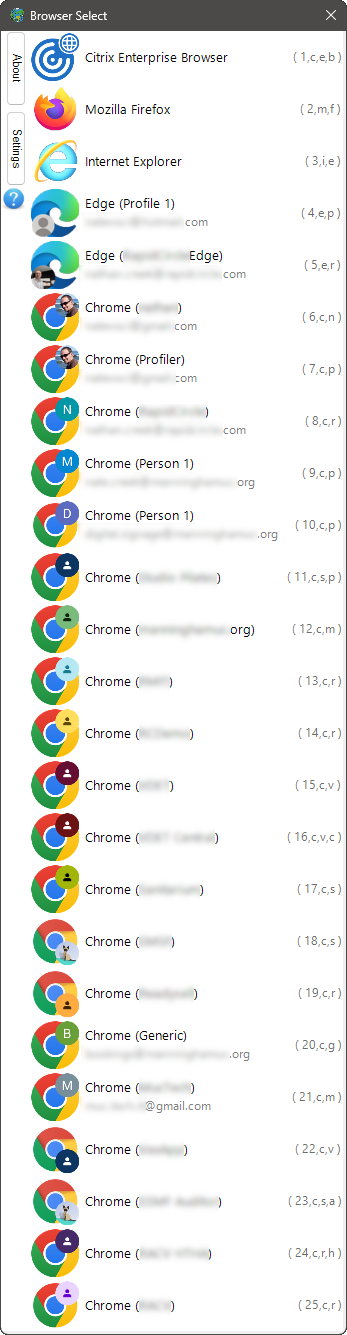
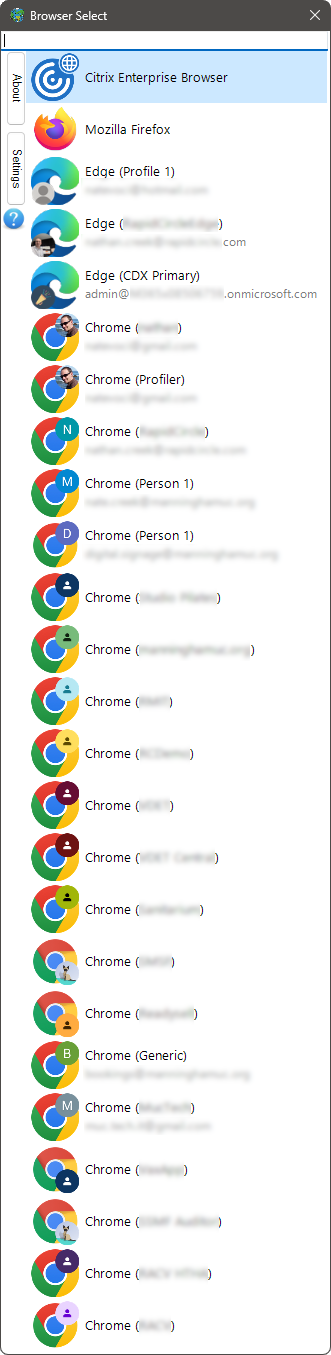
Updated README.md for 1.5.1

diff --git a/README.md b/README.md
@@ -3,6 +3,10 @@ Browser Select is a utility to dynamically select the browser you want instead o
 
 ![screenshot1](https://raw.githubusercontent.com/lucasnz/BrowserSelect/master/screenshots/photo_2016-07-11_13-44-19.png)
 
+or in vertical "Compact mode"
+
+![screenshot1](screenshots/compact-vertical.png)
+
 Instead of having to copy the link, open the desired (non-default) browser then pasting the link, all you need to do is to click on the link and this prompt will open allowing you to choose the browser you want. It automatically detects installed browsers. It does not require administrative rights and can be installed as a restricted user.
 
 ![screenshot 2](https://raw.githubusercontent.com/lucasnz/BrowserSelect/master/screenshots/photo_2015-10-12_16-46-14.jpg)
@@ -56,7 +60,7 @@ Just a list of some ideas that can be integrated into BrowserSelect.
 - [ ] export/import for rules/settings
 - [ ] Sorting browsers on the list
 - [ ] Custom Shortcuts
-- [ ] Ignoring the rules if Alt key is held down when clicking a link
+- [x] Ignoring the rules if Alt key is held down when clicking a link
 - [ ] an API to invoke BrowserSelect
 - [ ] Bugfix for when Browser was launched with Maximize window state (browser select will launch maximized)
 - [ ] A browser extension to launch the correct browser based on the rules even if a link is clicked inside a browser
@@ -72,6 +76,17 @@ Just a list of some ideas that can be integrated into BrowserSelect.
 - [ ] record which browser you select for each domain and provide visual indicator of how often each browser is chosen for this domain
 
 # Changelog
+
+v1.5.1 [21/09/2023]
+- Features:
+  - In Compact mode, Added a text filter instead of shortcut keys to better handle long lists of browsers.
+  - Added the ability to skip rules when opening by holding the Alt key.
+  - In Compact mode, changed the "Always use" option to simply use the full domain name.
+- Bug fixes:
+  - Fixed detection of chrome and edge profiles to only detect root level profiles so that snapshots (which appear as duplicates) are ignored.
+  - Fixed exception when choosing Always option in compact view
+  - Fixed handling of urls with ports
+
 
 v1.5.0 [17/08/2023]
 - New Feature: Compact vertical mode
